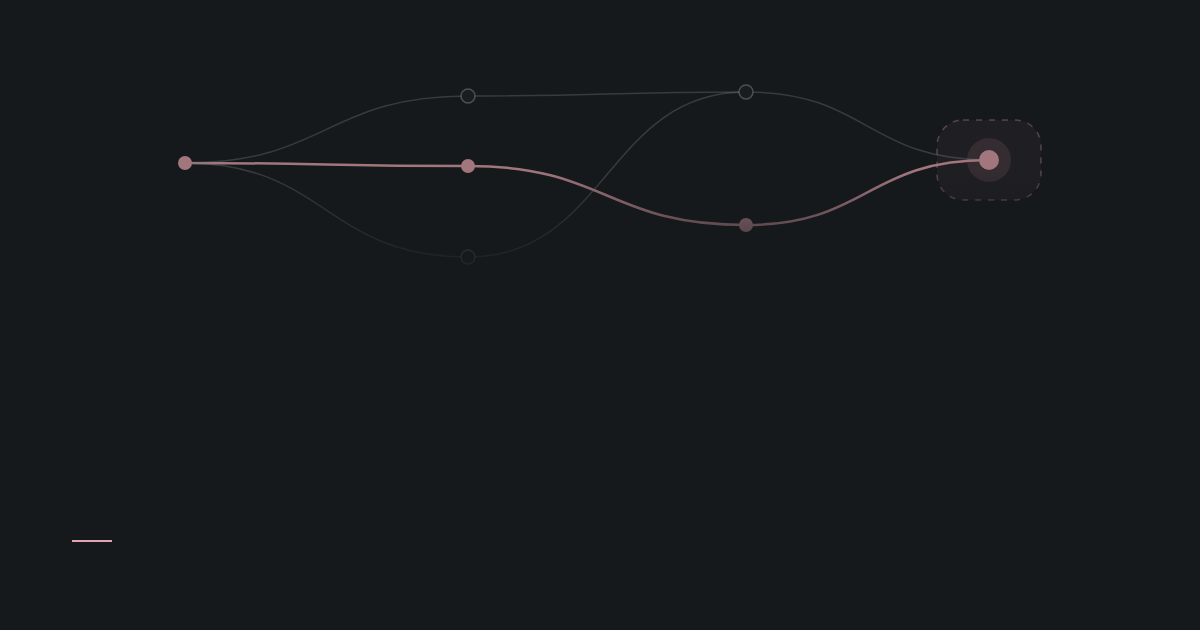
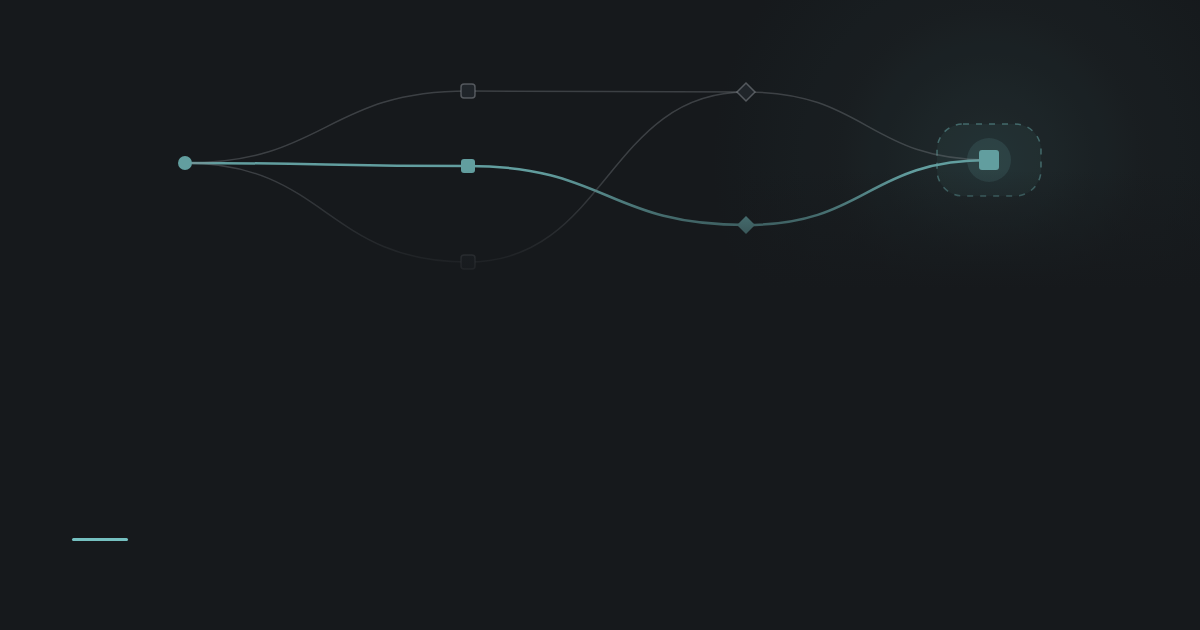
Colour drawings and social cards by topic and vary their shapes
The drawing takes its hue from the page's first topic and the boundary's
from the second, so a topic is recognisable at a glance. Compositions now
vary more: twelve set shapes next to the free flow, three line styles,
three node marks, and a boundary that can carry faint dots or hatching.
A light tint and a soft glow behind the last node give the plate depth.
Social cards set the bar and the label in the topic's tone.

Claude-Session: https://claude.ai/code/session_0175HbppHQcEwuQax9mw2rqe

diff --git a/layouts/_partials/diagram.html b/layouts/_partials/diagram.html
@@ -13,23 +13,43 @@ Always decorative. Colours come from CSS custom properties, so the drawing follo
 {{- $h := md5 $seed -}}
 {{- $hex := dict "0" 0 "1" 1 "2" 2 "3" 3 "4" 4 "5" 5 "6" 6 "7" 7 "8" 8 "9" 9 "a" 10 "b" 11 "c" 12 "d" 13 "e" 14 "f" 15 -}}
 {{- $n := slice -}}{{- range seq 0 31 -}}{{- $n = $n | append (index $hex (substr $h . 1)) -}}{{- end -}}
-{{- $hue := index (slice 10 55 100 150 195 235 275 320) (mod (index $n 30) 8) -}}
 
-{{- /* Columns of nodes. Middle columns hold 1–3 nodes, the ends 1–2, so the shape varies a lot. */ -}}
-{{- $cols := add 3 (mod (index $n 0) 3) -}}
+{{- /* Colour: the first topic's hue for the path, the second topic's (if any) for the boundary. */ -}}
+{{- $topics := slice -}}
+{{- with .seed }}{{ with (partial "data/topic.html" .).id }}{{ $topics = slice . }}{{ end }}{{ else }}{{ $topics = partial "data/topics.html" $p }}{{ end -}}
+{{- $hue := index (slice 10 55 100 150 195 235 275 320) (mod (index $n 30) 8) -}}
+{{- with index $topics 0 }}{{ with (partial "data/topic.html" .).hue }}{{ $hue = . }}{{ end }}{{ end -}}
+{{- $hue2 := $hue -}}
+{{- if gt (len $topics) 1 }}{{ with (partial "data/topic.html" (index $topics 1)).hue }}{{ $hue2 = . }}{{ end }}{{ end -}}
+
+{{- /* Shape: a third of the pages get a free flow (1–3 nodes per middle column); the rest take one
+   of the set shapes: fan-out, fan-in, diamond, relay through one party. */ -}}
+{{- $shapes := slice (slice 1 2 3 4) (slice 1 3 4) (slice 4 3 2 1) (slice 4 2 1) (slice 1 3 1) (slice 1 2 3 2 1) (slice 1 4 1) (slice 2 1 2) (slice 2 1 3 1) (slice 3 1 3) (slice 2 1 2 1 2) (slice 1 1 3) -}}
+{{- $counts := slice -}}
+{{- if lt (index $n 0) 5 -}}
+  {{- $cols := add 3 (mod (index $n 0) 3) -}}
+  {{- range $c := seq 0 (sub $cols 1) -}}
+    {{- $k := add 1 (mod (index $n (add 6 $c)) 3) -}}
+    {{- if or (eq $c 0) (eq $c (sub $cols 1)) }}{{ $k = add 1 (mod (index $n (add 6 $c)) 2) }}{{ end -}}
+    {{- $counts = $counts | append $k -}}
+  {{- end -}}
+{{- else -}}
+  {{- $counts = index $shapes (mod (add (index $n 0) (index $n 31)) (len $shapes)) -}}
+{{- end -}}
+{{- $cols := len $counts -}}
 {{- $step := div 820 (sub $cols 1) -}}
+{{- $gaps := slice 0 0 130 90 64 -}}
 {{- $nodes := slice }}{{ $colNodes := slice -}}
-{{- range $c := seq 0 (sub $cols 1) -}}
-  {{- $k := add 1 (mod (index $n (add 6 $c)) 3) -}}
-  {{- if or (eq $c 0) (eq $c (sub $cols 1)) }}{{ $k = add 1 (mod (index $n (add 6 $c)) 2) }}{{ end -}}
+{{- range $c, $k := $counts -}}
   {{- $x := add (add 190 (mul $c $step)) (mul (sub (index $n (add 1 $c)) 7) 5) -}}
+  {{- $mark := mod (index $n (add 18 $c)) 3 -}}
   {{- $ids := slice -}}
   {{- range $i := seq 0 (sub $k 1) -}}
-    {{- $gap := cond (eq $k 3) 85 130 -}}
+    {{- $gap := index $gaps $k -}}
     {{- $y := add (sub 200 (div (mul $gap (sub $k 1)) 2)) (mul $i $gap) -}}
-    {{- $y = add $y (mul (sub (index $n (mod (add 12 (add (mul $c 3) $i)) 32)) 7) 3) -}}
+    {{- $y = add $y (mul (sub (index $n (mod (add 12 (add (mul $c 3) $i)) 32)) 7) (cond (eq $k 4) 2 3)) -}}
     {{- $ids = $ids | append (len $nodes) -}}
-    {{- $nodes = $nodes | append (dict "x" $x "y" $y) -}}
+    {{- $nodes = $nodes | append (dict "x" $x "y" $y "mark" $mark) -}}
   {{- end -}}
   {{- $colNodes = $colNodes | append (dict "ids" $ids) -}}
 {{- end -}}
@@ -59,19 +79,40 @@ Always decorative. Colours come from CSS custom properties, so the drawing follo
   {{- $minx = cond (lt $nd.x $minx) $nd.x $minx }}{{ $maxx = cond (gt $nd.x $maxx) $nd.x $maxx -}}
   {{- $miny = cond (lt $nd.y $miny) $nd.y $miny }}{{ $maxy = cond (gt $nd.y $maxy) $nd.y $maxy -}}
 {{- end }}{{ end -}}
-{{- $bx := sub $minx 52 }}{{ $by := sub $miny 40 }}{{ $bw := add (sub $maxx $minx) 104 }}{{ $bh := add (sub $maxy $miny) 80 -}}
+{{- $bx := sub $minx 52 }}{{ $by := sub $miny 36 }}{{ $bw := add (sub $maxx $minx) 104 }}{{ $bh := add (sub $maxy $miny) 72 -}}
 {{- $end := index $nodes (index $path (sub $cols 1)) -}}
-{{- $style := printf "--h: %d" $hue }}{{ with .name }}{{ $style = printf "%s; view-transition-name: %s" $style . }}{{ end -}}
+{{- $style := printf "--h: %d; --h2: %d" $hue $hue2 }}{{ with .name }}{{ $style = printf "%s; view-transition-name: %s" $style . }}{{ end -}}
+{{- $id := substr $h 0 6 -}}
+{{- $line := index (slice 0 0 0 0 0 0 0 0 2 2 2 2 2 1 1 1) (index $n 5) -}}
+{{- $fill := mod (index $n 29) 3 -}}
 <svg class="diagram {{ .class }}" viewBox="0 0 1200 400" xmlns="http://www.w3.org/2000/svg" preserveAspectRatio="xMidYMid slice" aria-hidden="true" focusable="false" style="{{ $style | safeCSS }}">
+<defs><radialGradient id="g{{ $id }}"><stop class="d-g0"/><stop offset=".5" class="d-g1"/><stop offset="1" class="d-g2"/></radialGradient>
+{{- if eq $fill 1 }}<pattern id="p{{ $id }}" width="18" height="18" patternUnits="userSpaceOnUse"><circle cx="9" cy="9" r="1.2" class="d-fill"/></pattern>{{ end -}}
+{{- if eq $fill 2 }}<pattern id="p{{ $id }}" width="12" height="12" patternUnits="userSpaceOnUse" patternTransform="rotate(45)"><rect width="1.2" height="12" class="d-fill"/></pattern>{{ end -}}
+</defs>
 <rect width="1200" height="400" class="d-ground"/>
+<circle cx="{{ $end.x }}" cy="{{ $end.y }}" r="300" fill="url(#g{{ $id }})"/>
+{{- if $fill }}
+<rect x="{{ $bx }}" y="{{ $by }}" width="{{ $bw }}" height="{{ $bh }}" rx="26" fill="url(#p{{ $id }})"/>
+{{- end }}
 <rect x="{{ $bx }}" y="{{ $by }}" width="{{ $bw }}" height="{{ $bh }}" rx="26" class="d-boundary"/>
 {{- range $ei, $e := $edges -}}
-  {{- $a := index $nodes $e.a }}{{ $b := index $nodes $e.b }}{{ $mx := div (add $a.x $b.x) 2 }}
-<path d="M{{ $a.x }} {{ $a.y }}C{{ $mx }} {{ $a.y }} {{ $mx }} {{ $b.y }} {{ $b.x }} {{ $b.y }}" class="d-edge{{ if $e.hi }} hi{{ end }}"{{ if $e.hi }} pathLength="1" style="--i: {{ $ei }}"{{ end }}/>
+  {{- $a := index $nodes $e.a }}{{ $b := index $nodes $e.b }}{{ $mx := div (add $a.x $b.x) 2 -}}
+  {{- $d := printf "M%d %dC%d %d %d %d %d %d" $a.x $a.y $mx $a.y $mx $b.y $b.x $b.y -}}
+  {{- if eq $line 1 }}{{ $d = printf "M%d %dL%d %d" $a.x $a.y $b.x $b.y }}{{ end -}}
+  {{- if eq $line 2 -}}
+    {{- $dy := sub $b.y $a.y }}{{ $ady := cond (lt $dy 0) (sub 0 $dy) $dy -}}
+    {{- $r := cond (lt $ady 32) (div $ady 2) 16 }}{{ $ry := cond (lt $dy 0) (sub 0 $r) $r -}}
+    {{- $d = printf "M%d %dH%dQ%d %d %d %dV%dQ%d %d %d %dH%d" $a.x $a.y (sub $mx $r) $mx $a.y $mx (add $a.y $ry) (sub $b.y $ry) $mx $b.y (add $mx $r) $b.y $b.x -}}
+  {{- end }}
+<path d="{{ $d }}" class="d-edge{{ if $e.hi }} hi{{ end }}"{{ if $e.hi }} pathLength="1" style="--i: {{ $ei }}"{{ end }}/>
 {{- end }}
 <circle cx="{{ $end.x }}" cy="{{ $end.y }}" r="22" class="d-halo"/>
-{{- range $i, $nd := $nodes }}
-<circle cx="{{ $nd.x }}" cy="{{ $nd.y }}" r="{{ cond (eq $i (index $path (sub $cols 1))) 10 7 }}" class="d-node{{ if in $path $i }} hi{{ end }}"/>
+{{- range $i, $nd := $nodes -}}
+  {{- $last := eq $i (index $path (sub $cols 1)) }}{{ $r := cond $last 10 7 }}{{ $class := printf "d-node%s" (cond (in $path $i) " hi" "") }}
+{{ if eq $nd.mark 1 }}<rect x="{{ sub $nd.x $r }}" y="{{ sub $nd.y $r }}" width="{{ mul $r 2 }}" height="{{ mul $r 2 }}" rx="3" class="{{ $class }}"/>
+{{- else if eq $nd.mark 2 }}{{ $q := add $r 2 }}<path d="M{{ $nd.x }} {{ sub $nd.y $q }}l{{ $q }} {{ $q }}-{{ $q }} {{ $q }}-{{ $q }}-{{ $q }}z" class="{{ $class }}"/>
+{{- else }}<circle cx="{{ $nd.x }}" cy="{{ $nd.y }}" r="{{ $r }}" class="{{ $class }}"/>{{ end }}
 {{- end }}
 </svg>
 {{- /* end diagram */ -}}

diff --git a/assets/css/site.css b/assets/css/site.css
@@ -479,12 +479,16 @@
 }
 
 @layer diagram {
-  /* Each drawing sets its own hue (--h); tone and lightness are shared, so all of them stay quiet. */
-  .diagram { --dg: var(--ground-2); --tone: light-dark(oklch(55% 0.1 var(--h, 8)), oklch(76% 0.075 var(--h, 8))); }
+  /* Each drawing takes its hues from the page's topics (--h, --h2); tone and lightness are shared, so all of them stay quiet. */
+  .diagram { --tone: light-dark(oklch(55% 0.1 var(--h, 8)), oklch(76% 0.075 var(--h, 8))); --tone2: light-dark(oklch(55% 0.1 var(--h2, 8)), oklch(76% 0.075 var(--h2, 8))); --dg: color-mix(in oklch, var(--tone) 5%, var(--ground-2)); }
   .diagram .d-ground { fill: var(--dg); }
-  .diagram .d-boundary { fill: color-mix(in oklch, var(--tone) 7%, transparent); stroke: color-mix(in oklch, var(--tone) 45%, transparent); stroke-width: 1.5; stroke-dasharray: 6 7; }
+  .diagram .d-g0 { stop-color: var(--tone); stop-opacity: 0.13; }
+  .diagram .d-g1 { stop-color: var(--tone); stop-opacity: 0.04; }
+  .diagram .d-g2 { stop-color: var(--tone); stop-opacity: 0; }
+  .diagram .d-fill { fill: color-mix(in oklch, var(--tone2) 22%, transparent); }
+  .diagram .d-boundary { fill: color-mix(in oklch, var(--tone2) 7%, transparent); stroke: color-mix(in oklch, var(--tone2) 55%, transparent); stroke-width: 1.5; stroke-dasharray: 6 7; }
   .diagram .d-edge { fill: none; stroke: color-mix(in oklch, var(--ink-2) 35%, transparent); stroke-width: 1.5; }
-  .diagram .d-edge.hi { stroke: var(--tone); stroke-width: 2.5; stroke-linecap: round; stroke-dasharray: 1; stroke-dashoffset: 0; }
+  .diagram .d-edge.hi { stroke: var(--tone); stroke-width: 2.5; stroke-linecap: round; stroke-linejoin: round; stroke-dasharray: 1; stroke-dashoffset: 0; }
   .diagram .d-node { fill: var(--dg); stroke: color-mix(in oklch, var(--ink-2) 55%, transparent); stroke-width: 1.5; }
   .diagram .d-node.hi { fill: var(--tone); stroke: none; }
   .diagram .d-halo { fill: color-mix(in oklch, var(--tone) 16%, transparent); }

diff --git a/layouts/_partials/social-card.html b/layouts/_partials/social-card.html
@@ -11,10 +11,11 @@
   {{- if .IsHome }}{{ $title = site.Params.statement }}{{ end -}}
   {{- $size := 64 }}{{ if gt (len $title) 60 }}{{ $size = 54 }}{{ end }}{{ if gt (len $title) 95 }}{{ $size = 46 }}{{ end -}}
   {{- $label := "JANBRENNENSTUHL.EU" -}}
-  {{- with partial "data/topic.html" $topic }}{{ $label = printf "%s  /  %s" $label (upper .title) }}{{ end -}}
+  {{- $tone := "#e2a4ae" -}}
+  {{- with partial "data/topic.html" $topic }}{{ $label = printf "%s  /  %s" $label (upper .title) }}{{ with .card }}{{ $tone = . }}{{ end }}{{ end -}}
   {{- $filters := slice
     (images.Text $title (dict "font" $font "size" $size "linespacing" (int (mul $size 0.18)) "x" 72 "y" 330 "color" "#dfe1e5"))
-    (images.Text $label (dict "font" $mono "size" 22 "x" 72 "y" 560 "color" "#e2a4ae"))
+    (images.Text $label (dict "font" $mono "size" 22 "x" 72 "y" 560 "color" $tone))
   -}}
   {{- $target := printf "%ssocial.png" (strings.TrimPrefix "/" .RelPermalink) -}}
   {{- $card = $base | images.Filter $filters | resources.Copy $target -}}

diff --git a/docs/DESIGN.md b/docs/DESIGN.md
@@ -56,17 +56,18 @@ The header has one setting: a light/dark toggle. It follows the system until use
 
 ## The drawing
 
-`layouts/_partials/diagram.html` draws a deterministic, label-free SVG for any page. An MD5 of the page's ID and title (or a `seed`, such as a topic ID on topic pages) decides everything:
+`layouts/_partials/diagram.html` draws a deterministic, label-free SVG for any page. The page's topics decide the colour; an MD5 of the page's ID and title (or a `seed`, such as a topic ID on topic pages) decides the rest:
 
-- 3–5 columns of nodes, 1–3 nodes per middle column and 1–2 at the ends, with small offsets;
-- links so every node has a way in and out, drawn as thin neutral curves;
-- one highlighted path, one node per column, in the page's tone, ending in a node with a soft halo;
-- one dashed trust boundary around one or two neighbouring columns (never the first);
-- the page's hue, one of eight (10, 55, 100, 150, 195, 235, 275, 320). Lightness and chroma are shared, so every hue is equally quiet.
+- the hue of the page's first topic (`hue` in `data/topics.toml`: Agents 290, Identity 240, AppSec 20, Passwords 75, Tokens 150, Engineering 195) for the highlighted path, the plate's faint tint and a soft glow behind the last node; the second topic's hue, if there is one, for the trust boundary. Lightness and chroma are shared, so every hue is equally quiet. A page without a topic gets one of eight hues from the hash;
+- the shape: a free flow of 3–5 columns with 1–3 nodes each, or one of twelve set shapes (fan-out, fan-in, diamond, relay through a single party), up to four nodes in a column;
+- the line style: curves (half of the pages), right-angled runs with rounded corners, or straight lines;
+- the node mark of each column: circle, square or diamond;
+- links so every node has a way in and out, drawn thin and neutral, and one highlighted path, one node per column, ending in a node with a soft halo;
+- one dashed trust boundary around one or two neighbouring columns (never the first), plain or filled with faint dots or hatching.
 
-So no two pages share a composition, and pages in the same topic no longer look alike. The drawing is always decorative (`aria-hidden`); explanatory figures use `figure-diagram` with a text alternative. Colours come from the tokens and `--h`, so the same SVG works in both themes. The highlighted path draws in once on load; under `prefers-reduced-motion` everything is static. The same `view-transition-name` on the home flagship and its article lets the drawing carry across the navigation (`@view-transition { navigation: auto; }`, CSS only). Article and flagship drawings sit inside the content width as a rounded plate, 4:1 on wide screens and 5:2 on narrow ones.
+So no two pages share a composition, and a topic is recognisable by its colour without its pages looking alike. Colour never carries the topic alone: the eyebrow names it. The drawing is always decorative (`aria-hidden`); explanatory figures use `figure-diagram` with a text alternative. Colours come from the tokens and `--h`, so the same SVG works in both themes. The highlighted path draws in once on load; under `prefers-reduced-motion` everything is static. The same `view-transition-name` on the home flagship and its article lets the drawing carry across the navigation (`@view-transition { navigation: auto; }`, CSS only). Article and flagship drawings sit inside the content width as a rounded plate, 4:1 on wide screens and 5:2 on narrow ones.
 
-Social cards reuse it: `assets/cards/pages/<id>.png` is each article's own drawing, drawn on every CI build by `scripts/card-plates.sh` and not committed, and `assets/cards/<topic>.png` the committed topic drawings (the fallback for pages without their own plate, e.g. in a local build), all rendered at 1200×630 in the dark theme; Hugo's `images.Text` writes the title (Geist Bold) and the topic label (Geist Mono) at build time. To regenerate the topic plates after changing the drawing or the palette: build, serve on port 8000, then run `node scripts/card-plates.cjs`. To see article cards locally, run `./scripts/card-plates.sh` before `./scripts/verify.sh`.
+Social cards reuse it: `assets/cards/pages/<id>.png` is each article's own drawing, drawn on every CI build by `scripts/card-plates.sh` and not committed, and `assets/cards/<topic>.png` the committed topic drawings (the fallback for pages without their own plate, e.g. in a local build), all rendered at 1200×630 in the dark theme; Hugo's `images.Text` writes the title (Geist Bold) and the topic label (Geist Mono, in the topic's tone: `card` in `data/topics.toml`, the hue as sRGB) at build time; the short bar above the label is drawn into the plate in the same tone. To regenerate the topic plates after changing the drawing or the palette: build, serve on port 8000, then run `node scripts/card-plates.cjs`. To see article cards locally, run `./scripts/card-plates.sh` before `./scripts/verify.sh`.
 
 ## Layout
 
